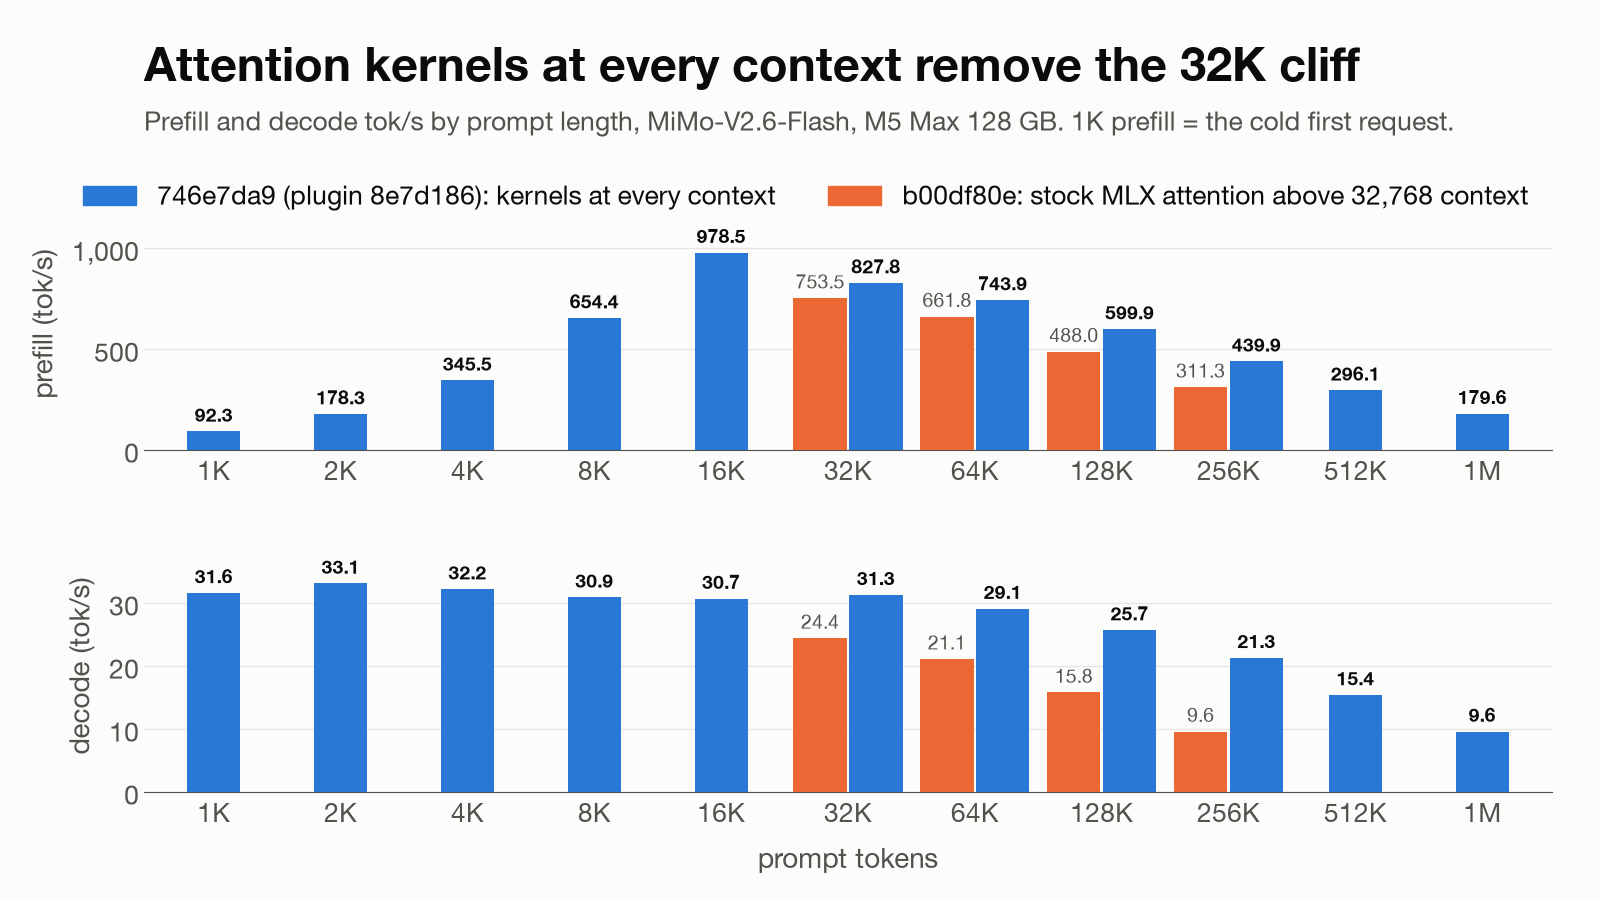
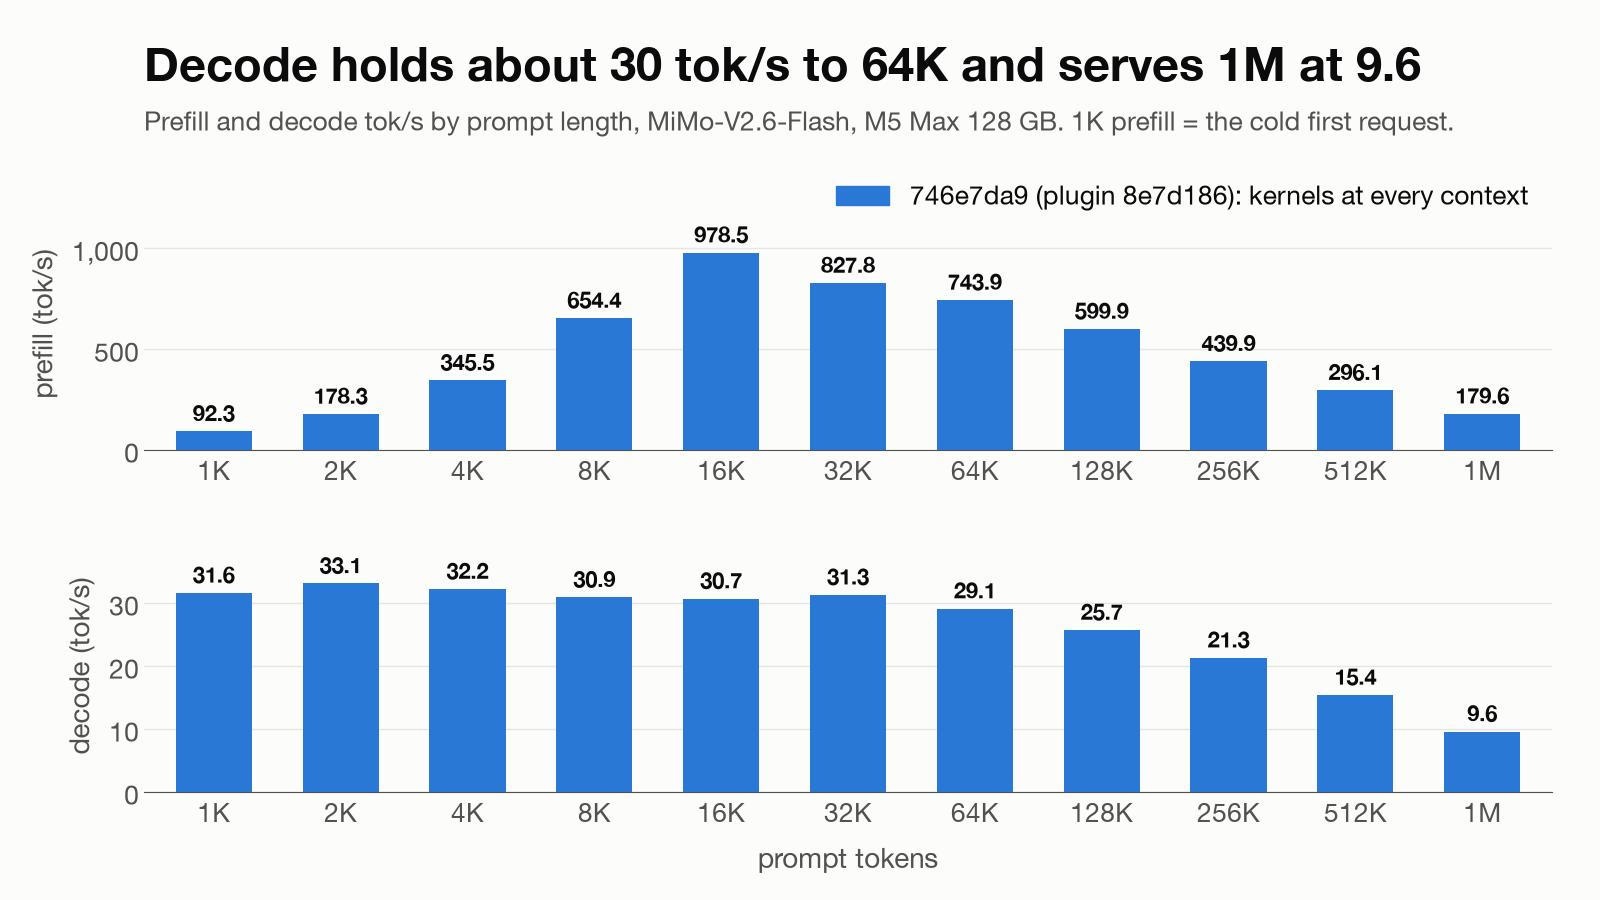
docs: MiMo ladder chart and captions show the shipping series only
docs/img/mimo-ladder.png is redrawn from scripts/mimo_charts.py with 746e7da9 alone (the second
series, its data and its legend entry are gone), and the README ladder paragraph and the
docs/mimo.md ladder caption no longer quote it.

diff --git a/scripts/mimo_charts.py b/scripts/mimo_charts.py
@@ -38,11 +38,6 @@ LADDER = {
     "512K": (296.1, 15.4), "1M": (179.6, 9.6),
 }
 
-# The previous binary b00df80e (this tree d3a8555), MLX's stock attention above 32,768 served context, on the rungs
-# past that context. Up to 16K prompts (32,768 context) it installs the binary 746e7da9's routes.
-# Source: cells/ladder2-20261011 (summary.txt LADDER_ROW lines; 256K: chain.log RUNG_END r09-256k).
-LADDER_PREVIOUS = {"32K": (753.5, 24.4), "64K": (661.8, 21.1), "128K": (488.0, 15.8), "256K": (311.3, 9.6)}
-
 # Served cells on the standard 16K prompt (served context 32,768): (sampling, answer, rows prompt/decode,
 # prefill tok/s, decode tok/s).
 # Sources: the card pair and the greedy pair: cells/card4-20261011 (c-def-1/2 and g-def-1/2, means of 2; binary
@@ -130,28 +125,20 @@ def note(fig, text, y=0.025):
 
 
 def ladder():
-    fig = figure("Attention kernels at every context remove the 32K cliff",
+    fig = figure("Decode holds about 30 tok/s to 64K and serves 1M at 9.6",
                  "Prefill and decode tok/s by prompt length, MiMo-V2.6-Flash, M5 Max 128 GB. "
                  "1K prefill = the cold first request.")
     panels = ((axes(fig, [0.09, 0.50, 0.88, 0.28], 1250, [0, 500, 1000], "prefill (tok/s)"), 0),
               (axes(fig, [0.09, 0.12, 0.88, 0.28], 40, [0, 10, 20, 30], "decode (tok/s)"), 1))
-    w, off = 0.42, 0.22
     for ax, k in panels:
         for i, rung in enumerate(RUNGS):
-            x = i
-            if rung in LADDER_PREVIOUS:
-                old = LADDER_PREVIOUS[rung][k]
-                ax.bar(i - off, old, w, color=ORANGE, zorder=3)
-                label(ax, i - off, old, num(old), size=14, weight="normal", color=INK2)
-                x = i + off
-            ax.bar(x, LADDER[rung][k], w, color=BLUE, zorder=3)
-            label(ax, x, LADDER[rung][k], num(LADDER[rung][k]), size=14)
+            ax.bar(i, LADDER[rung][k], 0.6, color=BLUE, zorder=3)
+            label(ax, i, LADDER[rung][k], num(LADDER[rung][k]), size=16)
         ax.set_xticks(range(len(RUNGS)))
         ax.set_xticklabels(RUNGS, fontsize=19)
         ax.set_xlim(-0.55, len(RUNGS) - 0.45)
     panels[1][0].set_xlabel("prompt tokens", fontsize=20, labelpad=10)
-    legend(fig, [(BLUE, "746e7da9 (plugin 8e7d186): kernels at every context"),
-                 (ORANGE, "b00df80e: stock MLX attention above 32,768 context")])
+    legend(fig, [(BLUE, "746e7da9 (plugin 8e7d186): kernels at every context")])
     return fig
 
 

diff --git a/docs/mimo.md b/docs/mimo.md
@@ -216,11 +216,11 @@ The prompt runs whole, in calls of up to 16,384 rows. Per routed layer:
 
 `python3 scripts/mimo_charts.py` draws these from the cells behind the README's measured lines (MiMo-V2.6-Flash).
 
-![Card ladder prefill and decode tok/s from 1K to 1M prompt tokens on 746e7da9, with b00df80e from 32K to 256K](img/mimo-ladder.png)
+![Card ladder prefill and decode tok/s from 1K to 1M prompt tokens on 746e7da9](img/mimo-ladder.png)
 
-The card ladder on `746e7da9` (this tree at `8e7d186`); `b00df80e` ran MLX's stock attention past 32,768 context. The
-binary of record, `4b018c54` (this tree at `05fc760`), differs from `746e7da9` only by the hot-path audit and the dead
-code sweep and reproduces its 16K cell token for token (stamp16k-g15-20261011: 998.8 / 32.30 tok/s, 688 tokens).
+The card ladder on `746e7da9` (this tree at `8e7d186`). The binary of record, `4b018c54` (this tree at `05fc760`),
+differs from `746e7da9` only by the hot-path audit and the dead code sweep and reproduces its 16K cell token for token
+(stamp16k-g15-20261011: 998.8 / 32.30 tok/s, 688 tokens).
 
 **Full 1K–1M sweep.** The card ladder on `746e7da9` in mlx-serve's benchmark format: one line chart per metric
 against requested context, with TTFT, both memory peaks and the answer lengths.

diff --git a/README.md b/README.md
@@ -270,12 +270,10 @@ complete and stopped on EOS.
 
 Prompt lengths are the fixtures', rendered for thinking off; thinking on drops their trailing `<think></think>`, so
 each request carries 2 tokens fewer. The 1K prefill figure is the cold first request: fixed startup dominates its
-11 s TTFT. The same ladder on `b00df80e`, which installed MLX's stock attention past 32,768 context, read
-753.5 / 24.4 at 32K, 661.8 / 21.1 at 64K, 488.0 / 15.8 at 128K and 311.3 / 9.6 at 256K (prefill / decode, tok/s);
-the attention kernels are now the defaults at every served context. The bf16res tier has not been measured on these
-builds.
+11 s TTFT. The attention kernels are the defaults at every served context, to the checkpoint's 1,048,576 keys. The
+bf16res tier has not been measured on these builds.
 
-![Card ladder prefill and decode tok/s from 1K to 1M prompt tokens on 746e7da9, with b00df80e from 32K to 256K](docs/img/mimo-ladder.png)
+![Card ladder prefill and decode tok/s from 1K to 1M prompt tokens on 746e7da9](docs/img/mimo-ladder.png)
 
 [![1K–1M sweep summary on 746e7da9: decode, prefill, TTFT, memory peaks and completion tokens](docs/benchmarks/mimo-v26-flash/summary.png)](docs/benchmarks/mimo-v26-flash/README.md)
 
